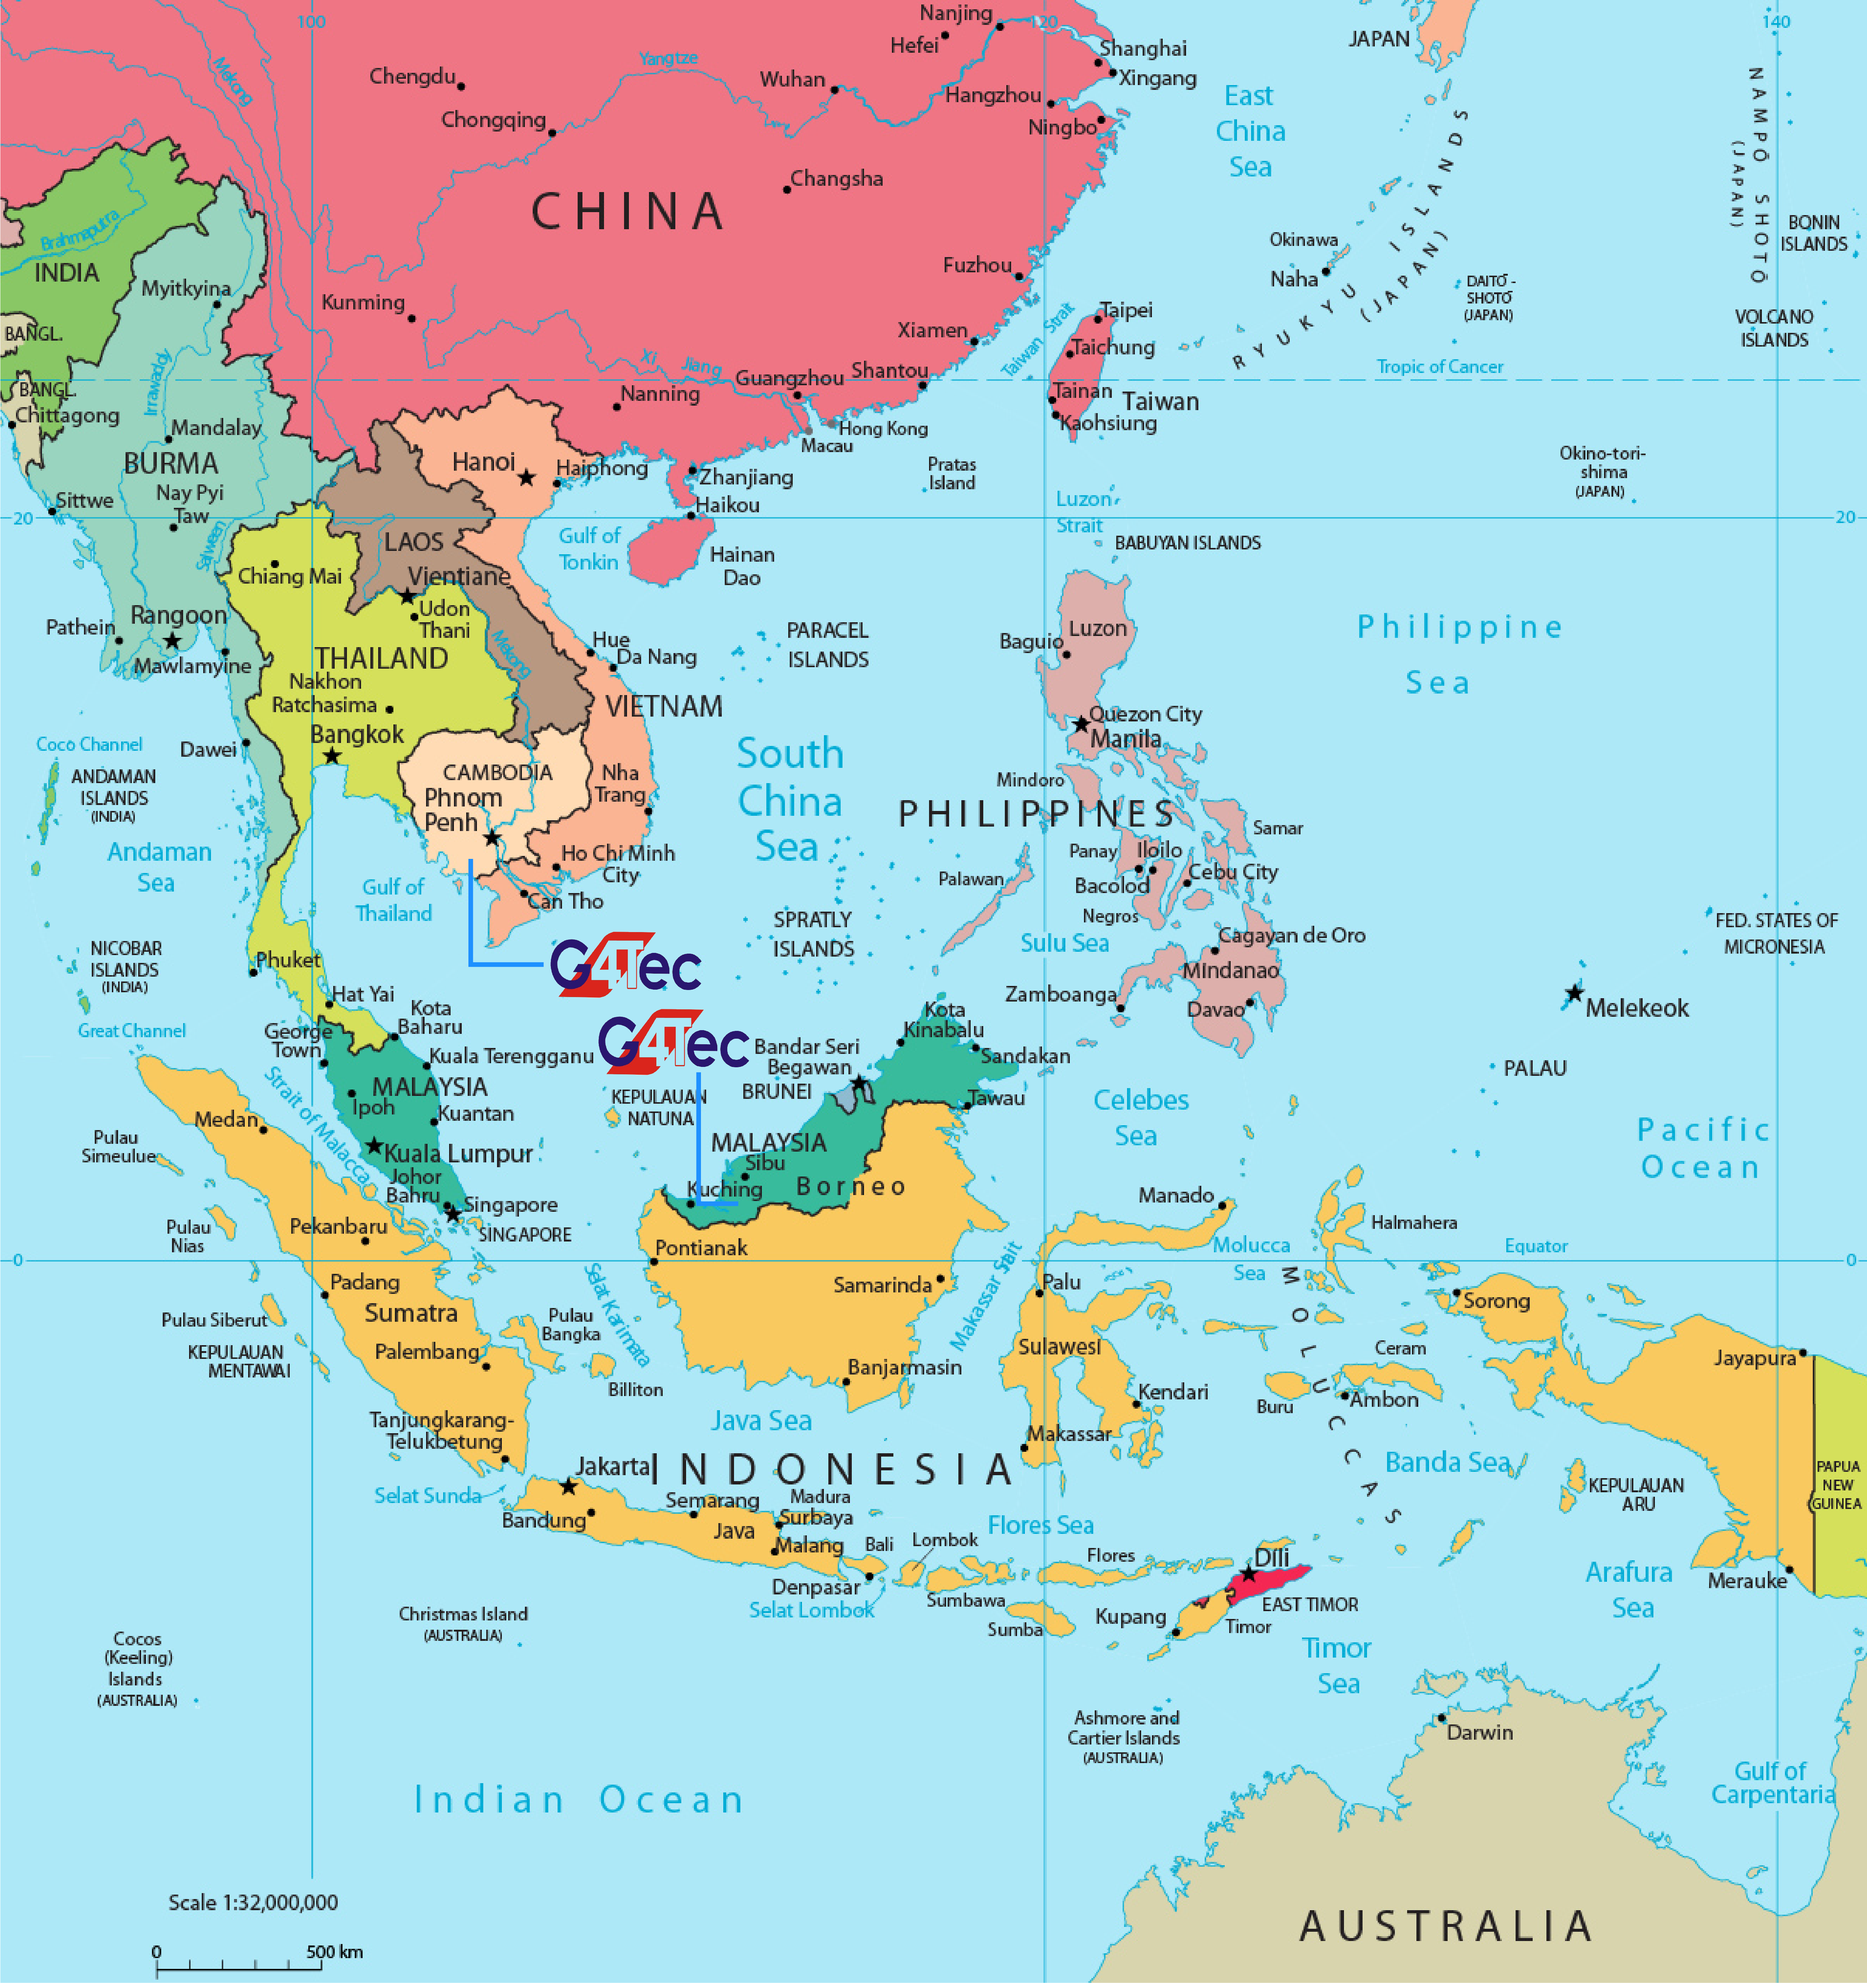
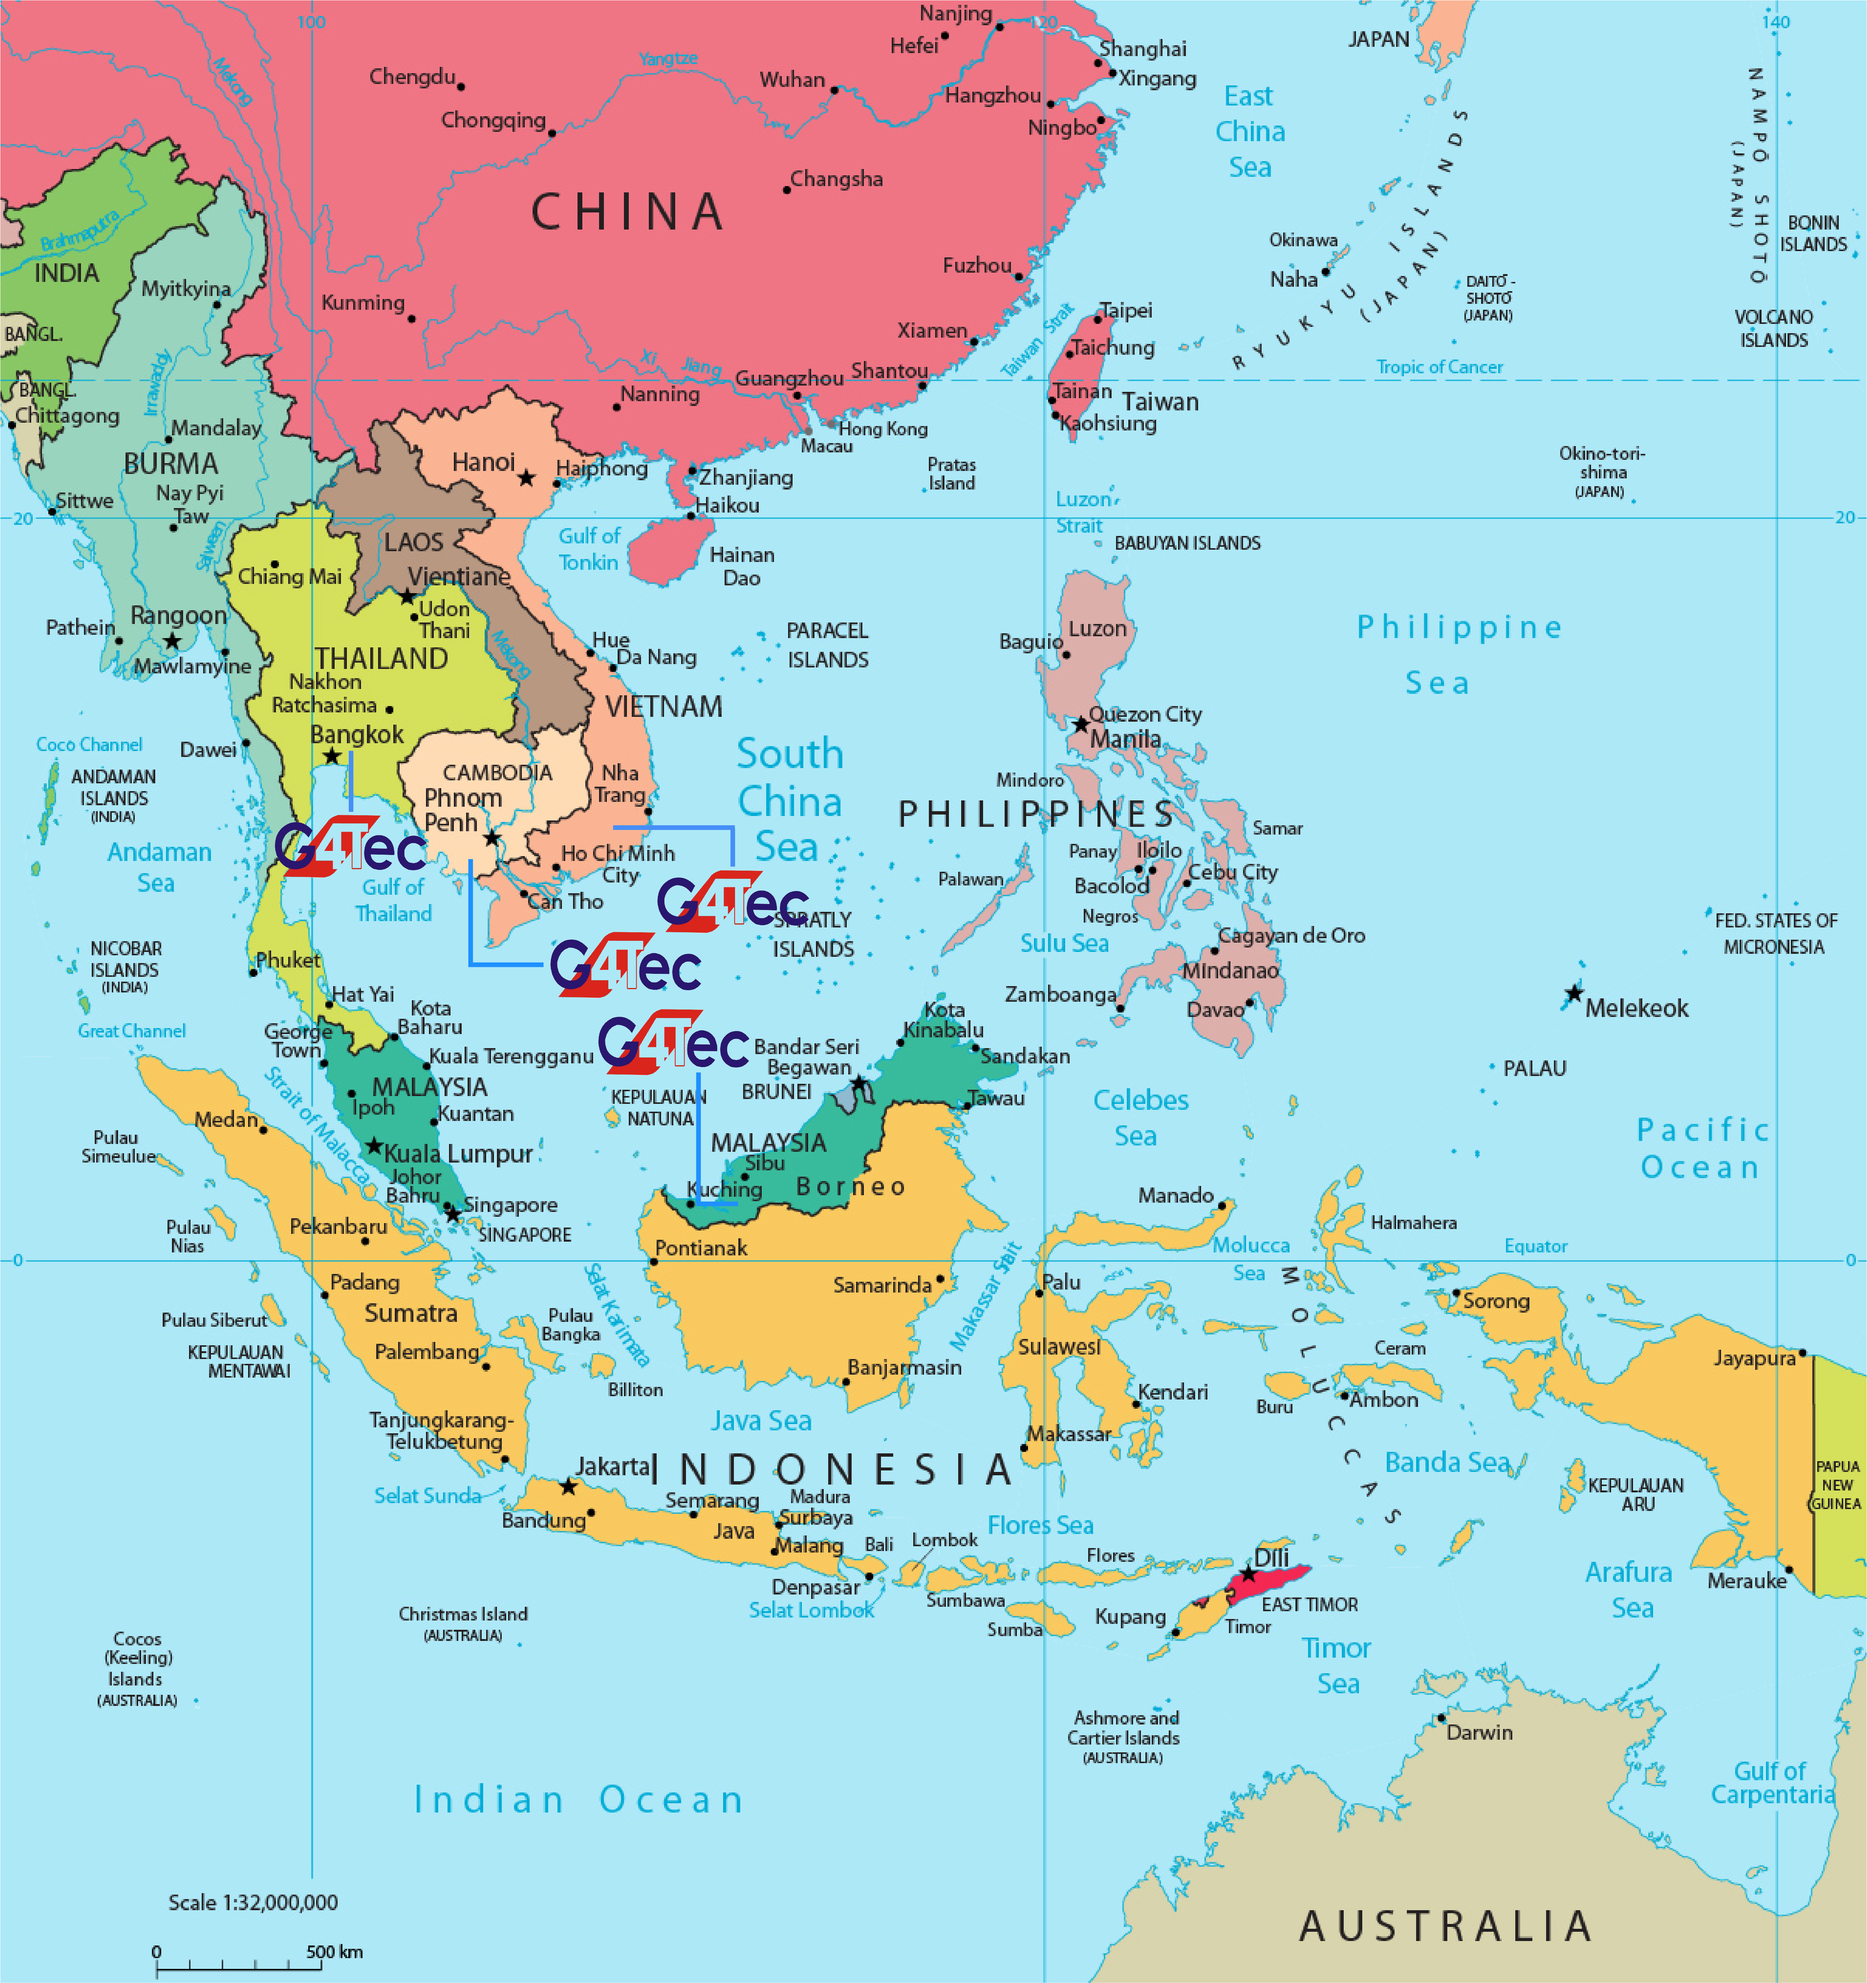
changed 2020

diff --git a/src/main/resources/templates/contact-us.html b/src/main/resources/templates/contact-us.html
@@ -41,13 +41,18 @@
                             <p><i class="icon fa fa-envelope"></i><a href="mailto:info@demomail.com">info@g4tecengineering.com</a></p>
                             <p><i class="icon fa fa-map-marker"></i>#94,st 608, Sangkat Boeung Kak 1, Khan Toul Kork, Phnom Penh, Cambodia</p>
                         </div>
-<!--                        <div class="col-lg-6 col-md-12 col-sm-12 mb-2">-->
-<!--                            <p class="text-center"><b>G4Tec Engineering Thailand</b></p>-->
-<!--                            <p><i class="icon fa fa-phone"></i>+66 66 058 8236</p>-->
-<!--                            <p><i class="icon fa fa-envelope"></i><a href="mailto:info@demomail.com">info@sdctengineering.com</a></p>-->
-<!--                            <p><i class="icon fa fa-map-marker"></i>57 Moo 2 Ban Pao District, Ban Na, Nakhon Nayok, Thailand</p>-->
-<!--                        </div>-->
-                </div><!-- .left_and_right_section_holder -->
+                    </div>
+                    <div class="row">
+                        <div class="col-lg-4 col-md-4 col-sm-12 mb-2 text-center" >
+                            <p><b>G4Tec Engineering Malaysia</b></p>
+                        </div>
+                        <div class="col-lg-4 col-md-4 col-sm-12 mb-2">
+                            <p class="text-center"><b>G4Tec Engineering Thailand</b></p>
+                        </div>
+                        <div class="col-lg-4 col-md-4 col-sm-12 mb-2">
+                            <p class="text-center"><b>G4Tec Engineering Vietnam</b></p>
+                        </div>
+                    </div><!-- .left_and_right_section_holder -->
                     <div class="text-center mt-2" >
                         <img class="img-hover" style="width: 90%; height: auto"  src="img/contact-us-g4tec.png"  alt="">
                     </div>

diff --git a/src/main/resources/templates/fragments/header.html b/src/main/resources/templates/fragments/header.html
@@ -35,6 +35,9 @@
                                         </li>
                                         <li><span class="location">#94,st 608, Sangkat Boeung Kak 1, Khan Toul Kork, PhnomPenh, Cambodia</span><!-- .email_address -->
                                         </li>
+                                    </ul>
+                                    <ul class="company_extraa_info">
+                                        <li><span>Malaysia, Vietnam, Thailand</span></li>
                                     </ul><!-- .company_extraa_info -->
 <!--                                    <ul class="company_extraa_info">-->
 <!--                                        <li><span class="contact_number">+66 66 058 8236</span>&lt;!&ndash; .contact_number &ndash;&gt;-->
